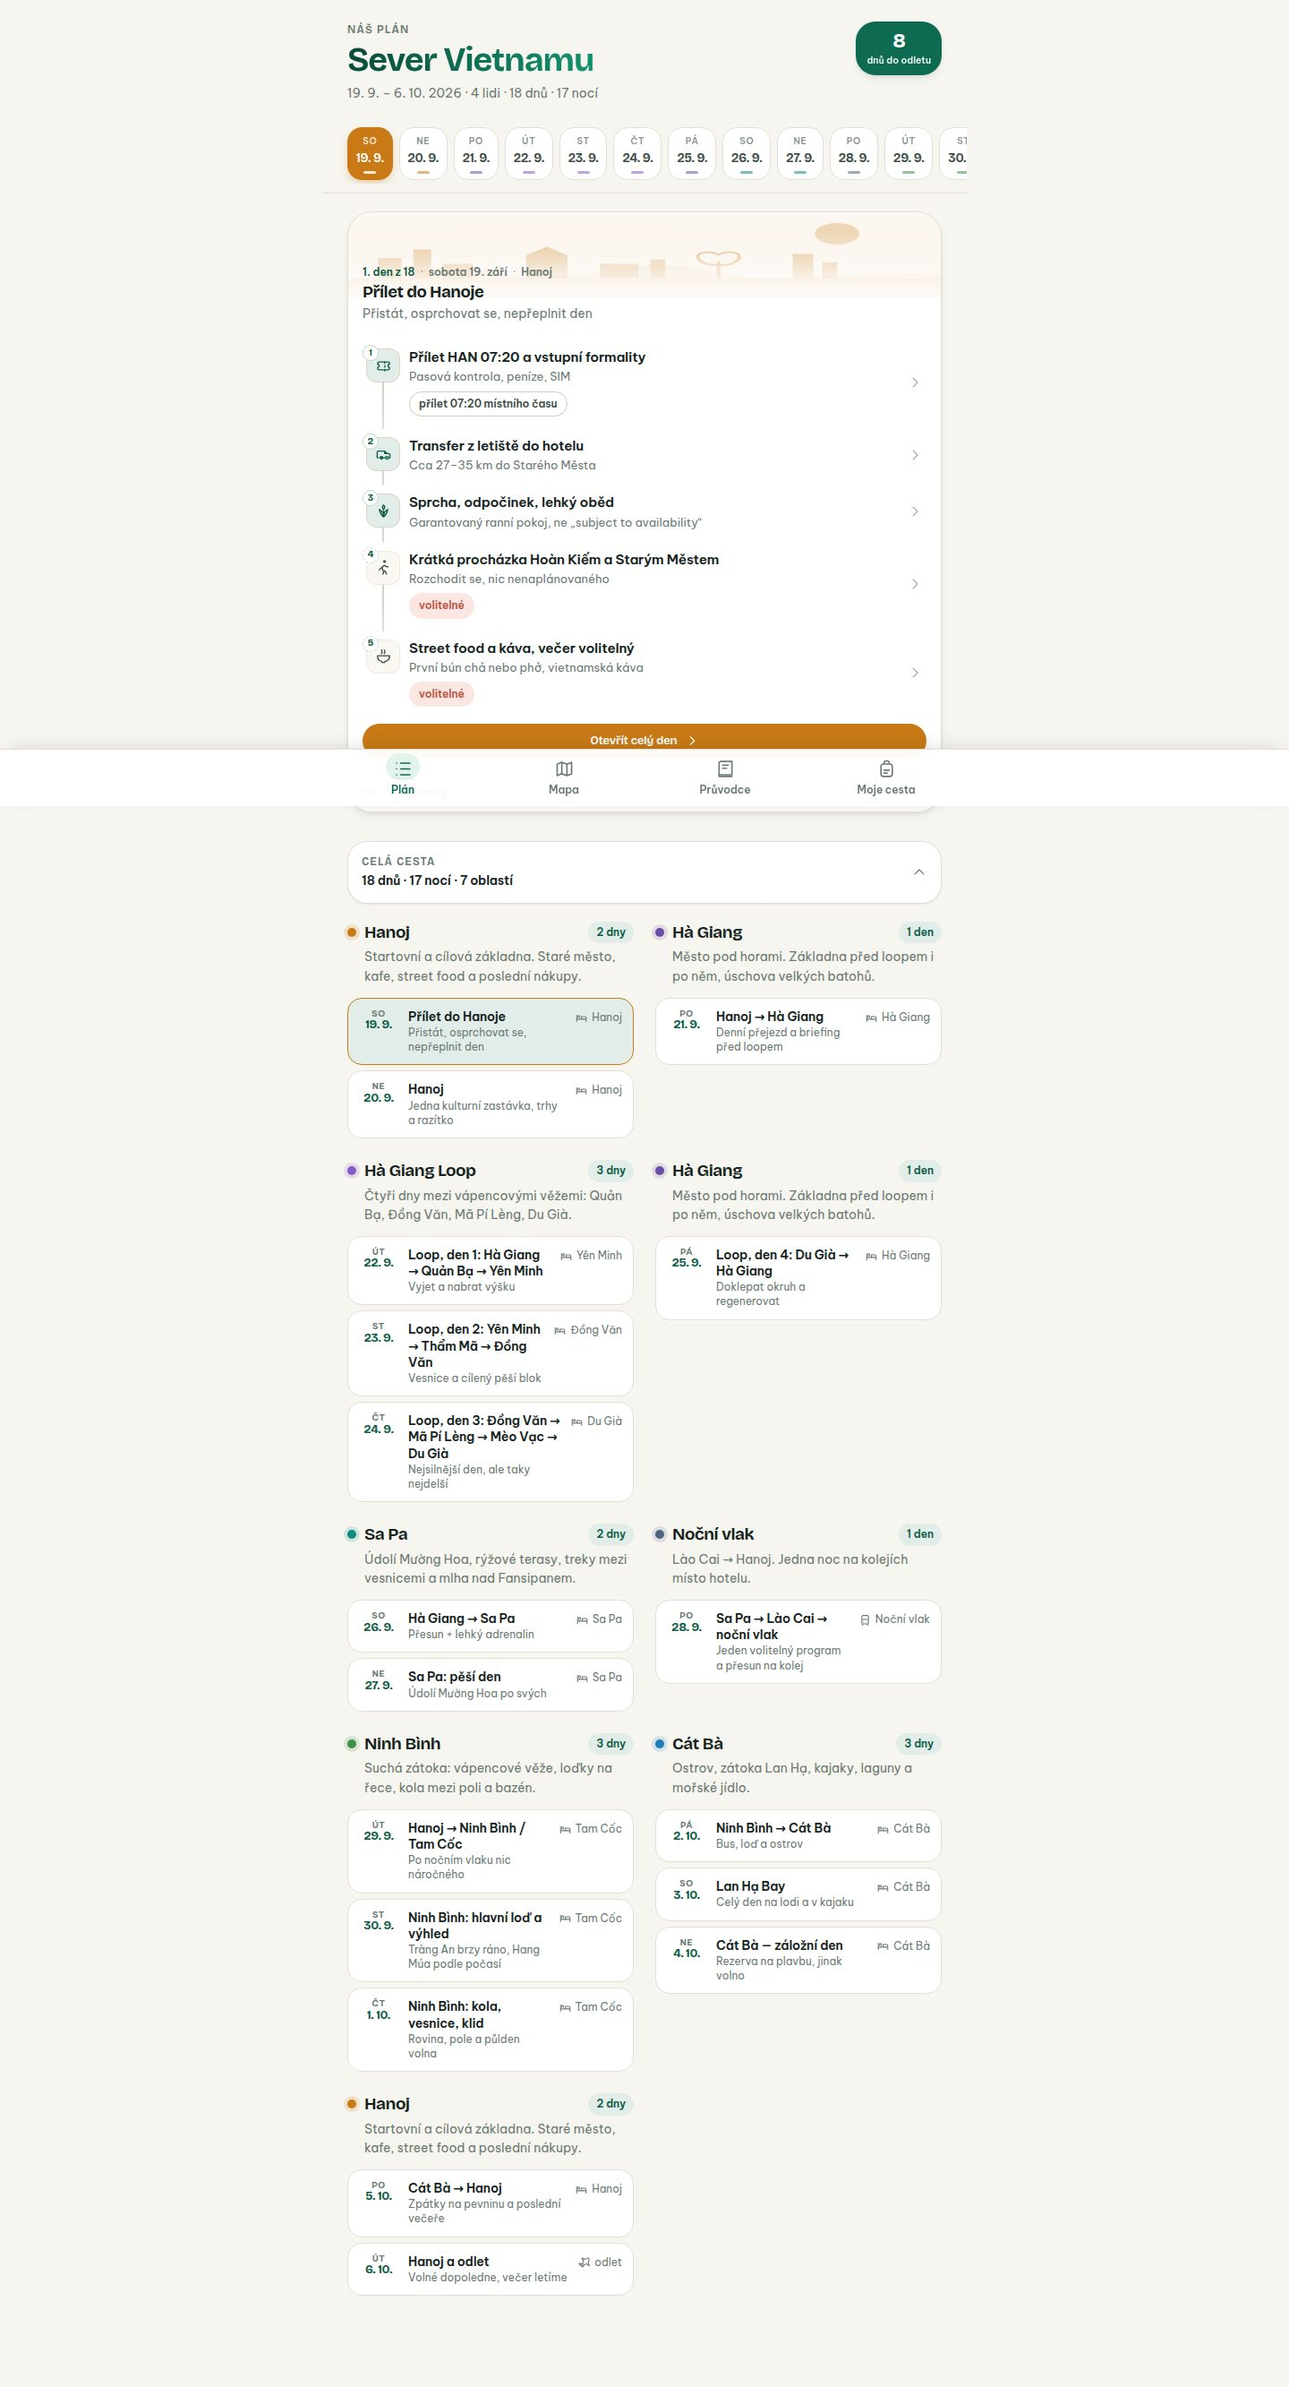
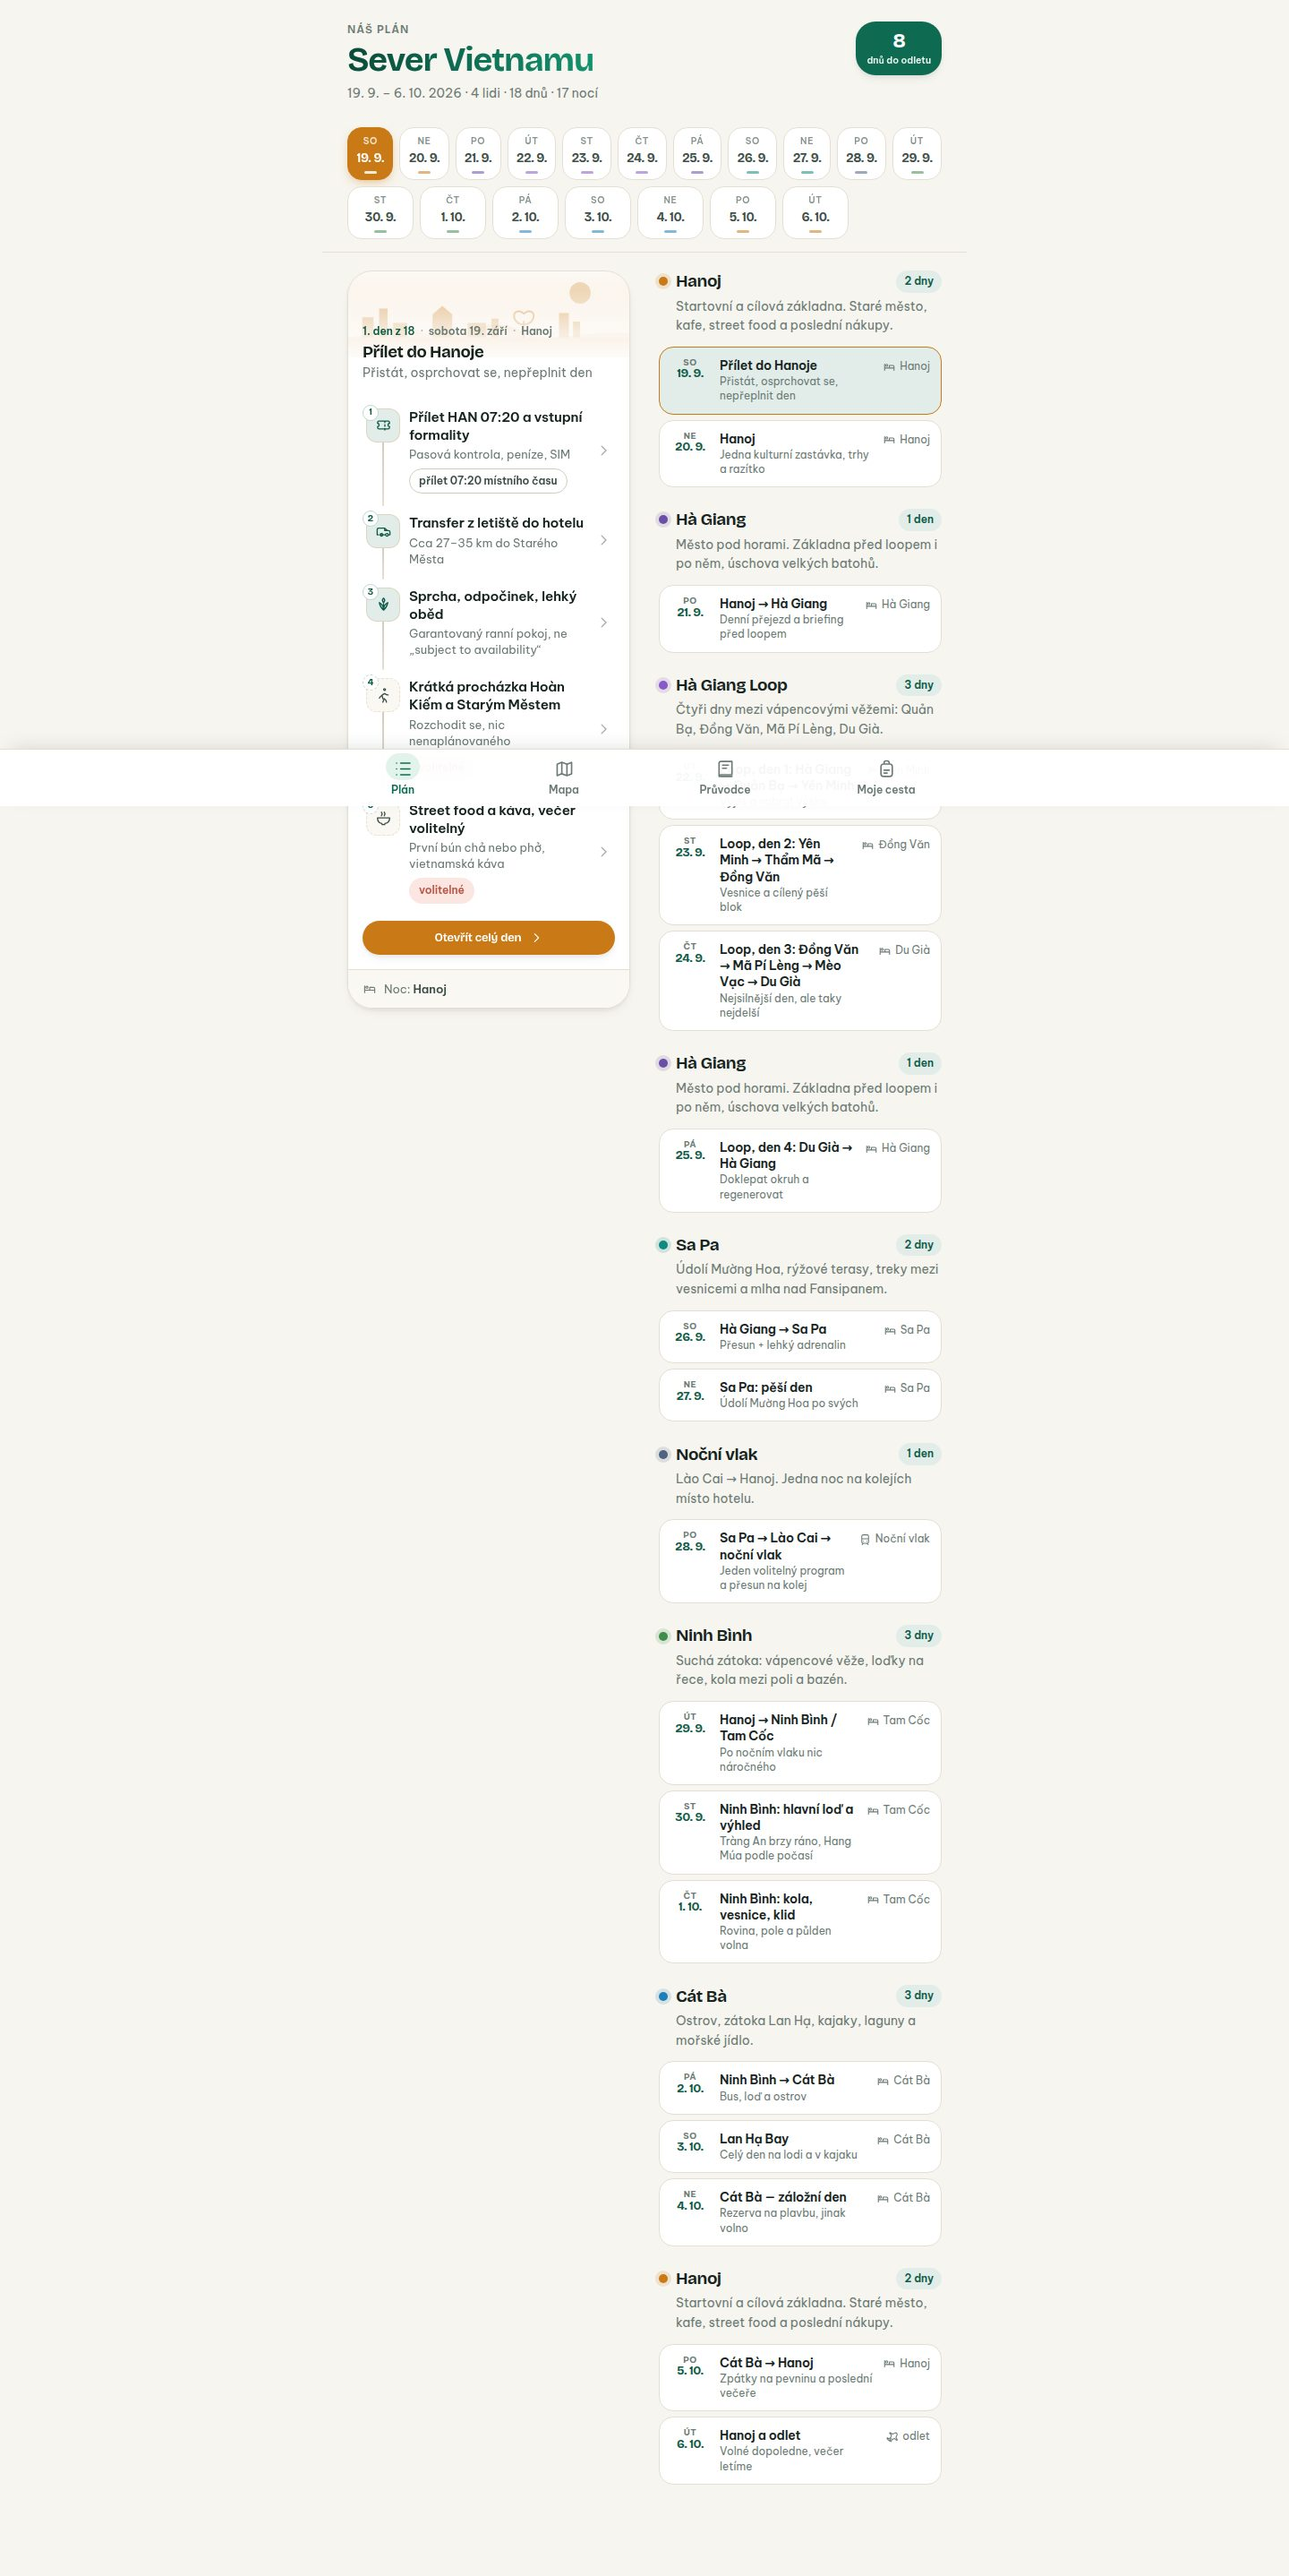
feat(ux): desktop rozložení plánu do dvou sloupců
Na 1440 px byl plán úzký sloupec uprostřed prázdné plochy a přehled cesty
ve dvou sloupcích rozbíjel chronologii.

- vybraný den vlevo (sticky), celá cesta vpravo v jednom chronologickém sloupci
- pás dnů se na širokém displeji zalomí a ukáže všech 18 dnů bez scrollování
- na mobilu beze změny

Claude-Session: https://claude.ai/code/session_01Cymdo9tzj1p7XfpkcYGvAf

diff --git a/src/styles/components.css b/src/styles/components.css
@@ -462,7 +462,6 @@
 
 @media (min-width: 1100px) {
   .plan { max-width: var(--wide-max); }
-  .plan__blocks { display: grid; grid-template-columns: repeat(2, minmax(0, 1fr)); gap: var(--s-7) var(--s-6); align-items: start; }
   .regionblock { min-width: 0; }
 }
 
@@ -516,8 +515,30 @@
 .miniday__row { align-items: flex-start; }
 .miniday__date, .miniday__night { padding-top: 1px; }
 
+/* ------------------------------------------------------------------
+   Desktop: vybraný den vlevo (drží se u kraje obrazovky), celá cesta
+   vpravo v jednom sloupci. Dvousloupcový přehled by rozbil chronologii —
+   cesta se čte shora dolů, ne zleva doprava.
+   ------------------------------------------------------------------ */
 @media (min-width: 1100px) {
-  .overview__blocks { display: grid; grid-template-columns: repeat(2, minmax(0, 1fr)); gap: var(--s-6); align-items: start; }
+  .plan__body {
+    display: grid;
+    grid-template-columns: minmax(0, 1fr) minmax(0, 1fr);
+    gap: var(--s-7);
+    align-items: start;
+    margin-top: var(--s-5);
+  }
+  .plan__body > .daycard--focus { margin-top: 0; position: sticky; top: 96px; }
+  .overview { margin-top: 0; }
+  .overview__toggle { display: none; }
+  .overview__blocks { margin-top: 0; }
+  .overview__head-desktop {
+    display: flex; align-items: baseline; gap: var(--s-3);
+    padding-bottom: var(--s-4); border-bottom: 1px solid var(--line); margin-bottom: var(--s-5);
+  }
+  /* Na širokém displeji se vejdou všechny dny najednou — nemusí se scrollovat. */
+  .daystrip__track { flex-wrap: wrap; justify-content: flex-start; }
+  .daychip { flex: 1 1 auto; max-width: 74px; }
 }
 
 /* --- rychlé srovnání variant -------------------------------------- */
@@ -892,3 +913,6 @@
   background: var(--surface-sunk); color: var(--ink-2);
   word-break: break-word; text-align: left;
 }
+
+.overview__head-desktop { display: none; }
+.overview__head-desktop h2 { font-size: 1.05rem; letter-spacing: -.022em; }

diff --git a/src/pages/PlanPage.tsx b/src/pages/PlanPage.tsx
@@ -76,15 +76,20 @@ export function PlanPage() {
         </div>
       </div>
 
-      <FocusDay day={focusDay} isToday={focusDay.date === pos.today} />
+      <div className="plan__body">
+        <FocusDay day={focusDay} isToday={focusDay.date === pos.today} />
 
-      <section className="overview">
-        <button
-          type="button"
-          className="overview__toggle"
-          aria-expanded={overviewOpen}
-          onClick={() => setOverviewOpen((v) => !v)}
-        >
+        <section className="overview">
+          <div className="overview__head-desktop">
+            <h2>Celá cesta</h2>
+            <span className="small muted">18 dnů · 17 nocí · 7 oblastí</span>
+          </div>
+          <button
+            type="button"
+            className="overview__toggle"
+            aria-expanded={overviewOpen}
+            onClick={() => setOverviewOpen((v) => !v)}
+          >
           <span className="overview__togglehead">
             <span className="section-label">Celá cesta</span>
             <span className="overview__sub">18 dnů · 17 nocí · 7 oblastí</span>
@@ -137,8 +142,9 @@ export function PlanPage() {
               )
             })}
           </div>
-        ) : null}
-      </section>
+          ) : null}
+        </section>
+      </div>
     </div>
   )
 }
